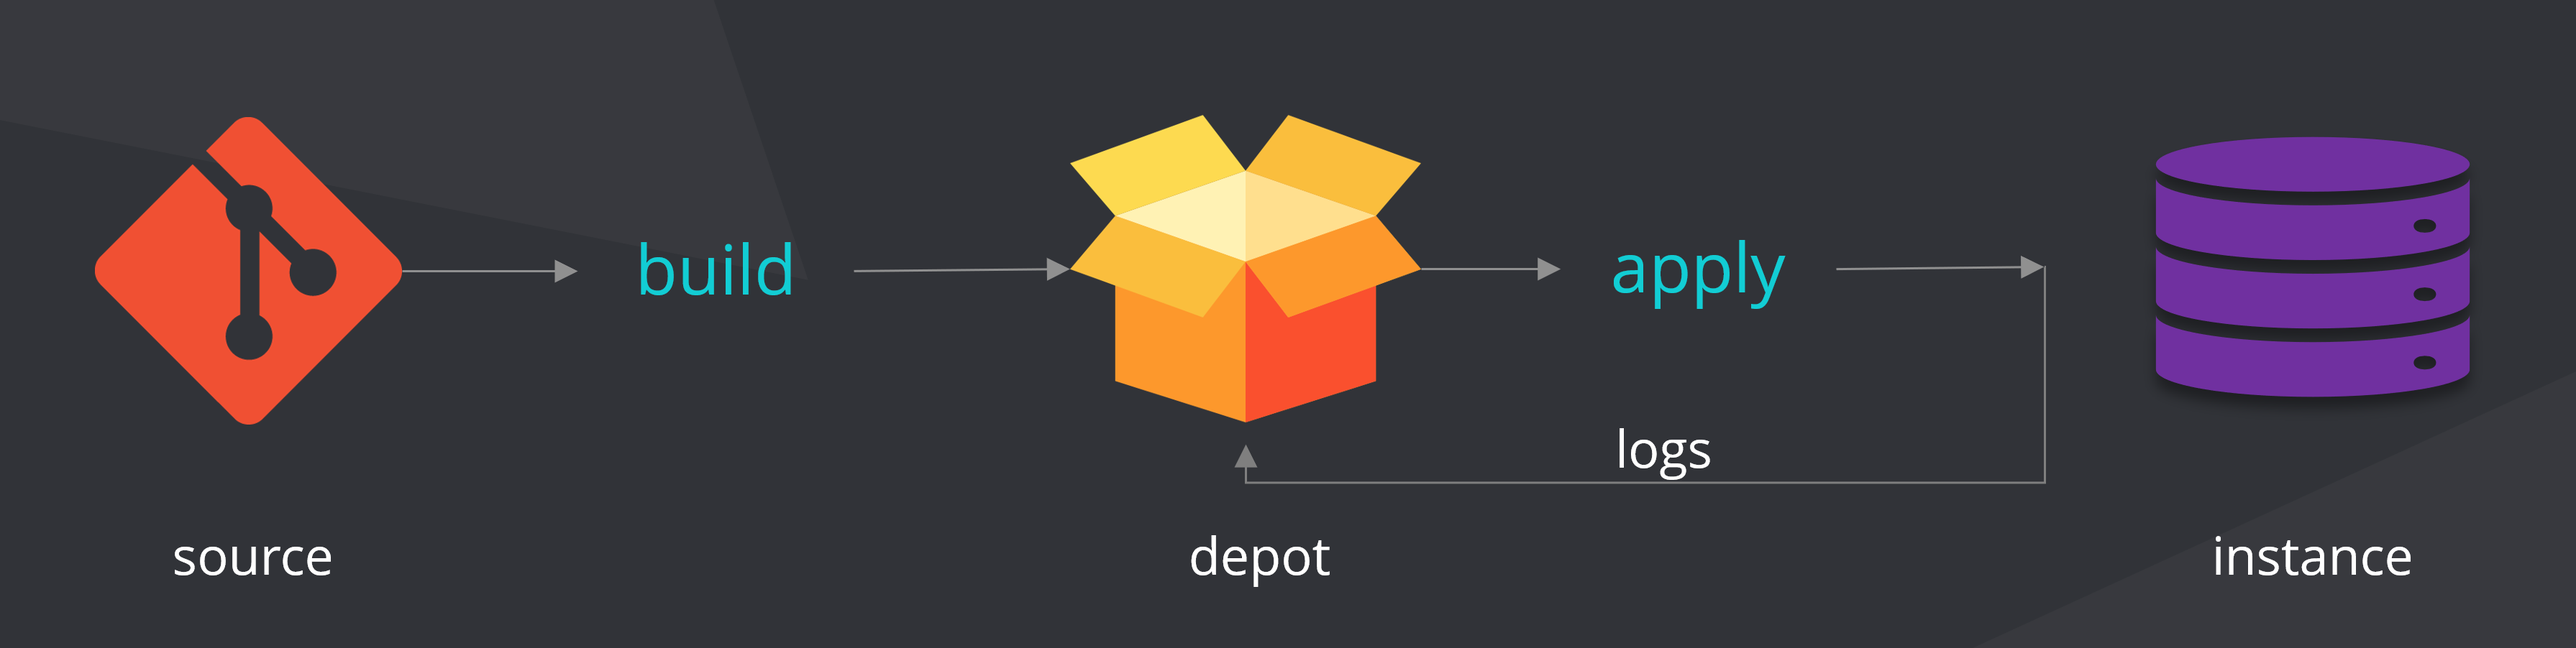
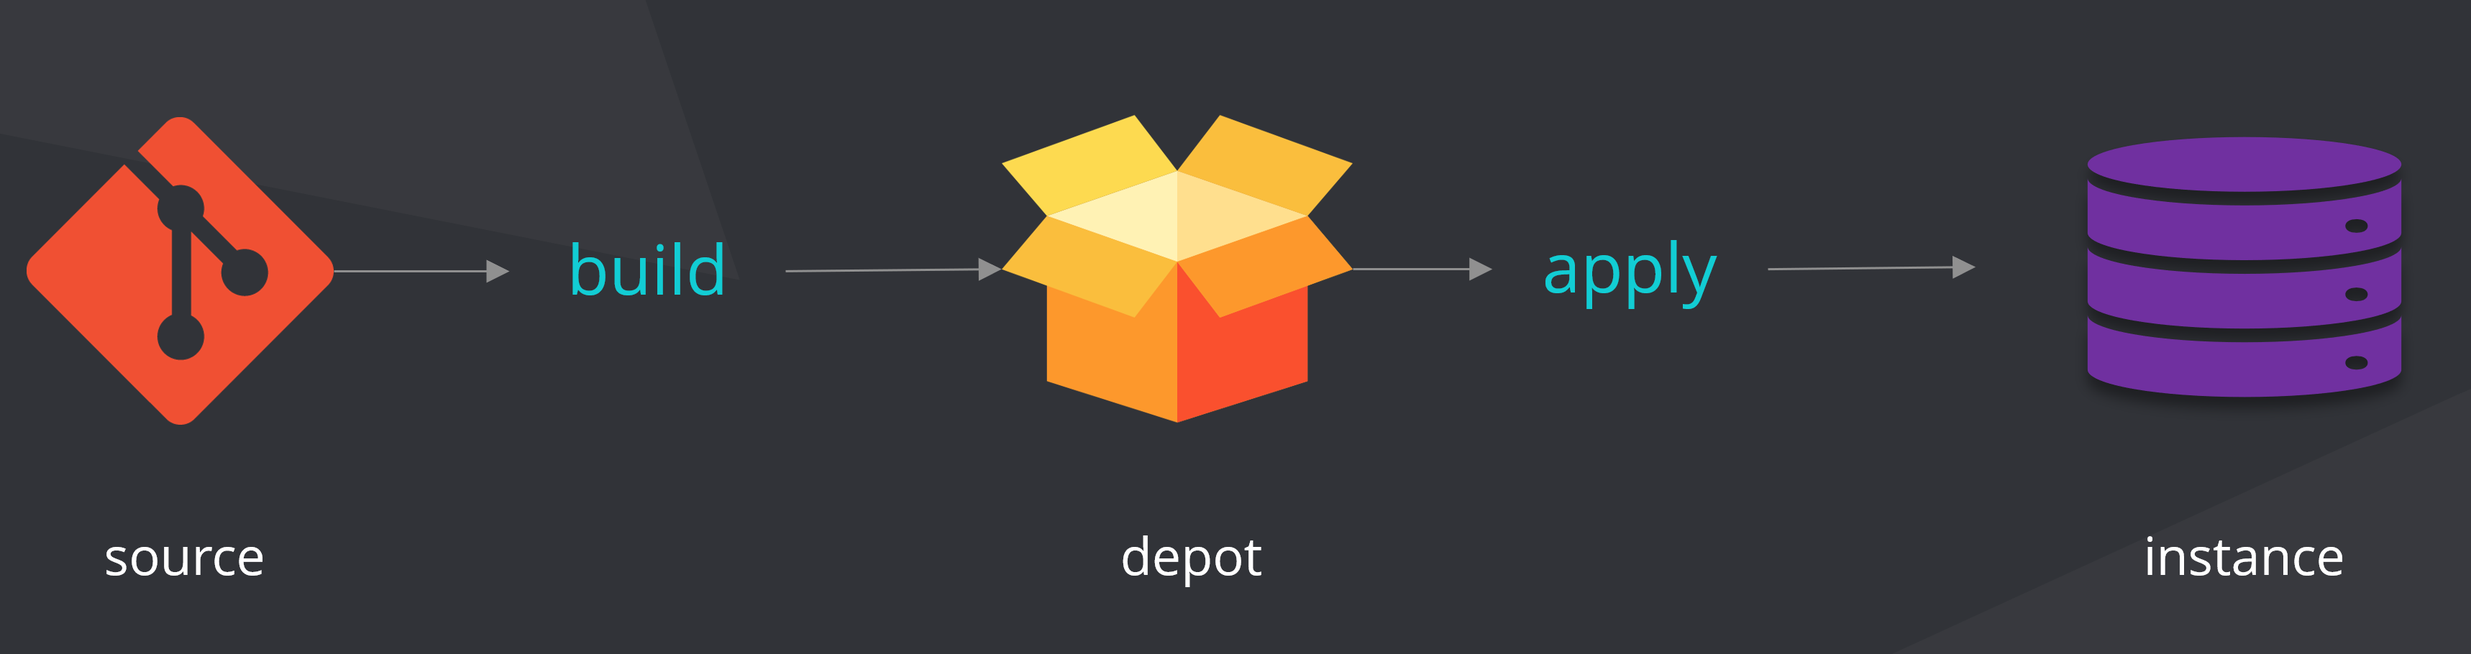
Updated docs and changelog

diff --git a/docs/concept.md b/docs/concept.md
@@ -426,11 +426,19 @@ Within the folders the order is alphabetical. If dbFLow finds a module file with
 
 ## Depot
 
-When you create a deployment, whether **==INIT==** or **==PATCH==**, the deployment artifact is stored in a so-called depot. From this depot, a CI/CD tool, for example, can later fetch the artifact and install it on the target instance. Within the depot directory, the individual deployments are stored in subdirectories that correspond to the Git branch from which they were created. After a successful installation, the patch, including all logs and temporary files, is placed in the success folder. Errors during the deployment lead to an abort and are stored in the failures subfolder.
+When you create a deployment, whether **==INIT==** or **==PATCH==**, the deployment artifact is stored in a so-called depot. From this depot, a CI/CD tool, for example, can later fetch the artifact and install it on the target instance. Within the depot directory, the individual deployments are stored in subdirectories that correspond to the Git branch from which they were created.
+
 
 ![](images/depot_and_flow.png)
 
 I recommend to use a separate repository or directory for each stage DB. This has the advantage that the corresponding directories serve their purpose even without Git and possibly access to the development repository. Theoretically, the repository can also be "doubled" to have a target directory at home and a source directory at the customer.
+
+
+## Logging
+
+After a successful installation, all logs and temporary created artifacs, are placed in a log folder. Errors during the deployment lead to an abort and are stored in the failures subfolder. The location of the log folder itself is configured in apply.env.
+
+>We recommend using the actual instance folder to ensure greater transparency.
 
 ## Big Picture
 

diff --git a/docs/setup.md b/docs/setup.md
@@ -120,6 +120,7 @@ You will be asked the following questions when creating the project:
 | Enter stage of this configuration mapped to branch (develop, test, master) [develop] | When importing the deployment, this setting assigns the database connection to the source branch |
 | Do you wish to generate and install default tooling? (Logger, utPLSQL, teplsql, tapi) [Y] | Here you activate the initial installation of the different components/dependencies. These are placed in the `db/_setup/features` folder. There you can also place other features by yourself. If you don't need certain components, you can delete the corresponding file from the features folder (before running the actual installation)..
 | Install with sql(cl) or sqlplus? [sqlplus] | Here you define which CLI **dbFLow** should use to execute the SQL scripts. |
+| Enter path to place logfiles and artifacts into after installation? | After a successful and also after an unsuccessful installation, all log files are stored in the folder specified here. |
 | Enter path to place logfiles into after installation? | You can define a path where the log files will be stored as well. This is useful when you have instance repos and want to have a history of your deployments near by the instance itself. |
 | Enter application IDs (comma separated) you wish to use initialy (100,101,...) | Here you can already enter the application IDs that **dbFlow** should initially take care of |
 | Enter restful Moduls (comma separated) you wish to use initialy (api,test,...) | Here you can already specify the REST modules that **dbFlow** should initially take care of |

diff --git a/docs/deployment.md b/docs/deployment.md
@@ -196,7 +196,7 @@ By specifying the ``-p/--patch`` flag, a patch release is imported from the depo
 $ .dbFlow/apply.sh --patch --version 1.1.0
 ```
 
-After the installation of a release, the artifact, as well as all resulting log and installation files are stored in the depot under the directory (success or failure). Failure of course only if the installation was aborted due to an error.
+After the installation of a release, all resulting log and installation files are stored in the configured `LOG_PATH` under a version directory and *success* or *failure*. Failure of course only if the installation was aborted due to an error.
 
 #### Additional arguments in patch mode:
 
@@ -213,7 +213,7 @@ $ # get and copy the failed patch to instance folder
 $ cp ../depot/test/failure/patch_1.1.0.tar.gz ./
 $
 $ # apply patch by installing only the uncalled db scripts
-$ .dbFlow/apply.sh --patch --version 1.1.0 --redolog ../depot/test/failure/20230613121314_dpl_patch_1.1.0.log
+$ .dbFlow/apply.sh --patch --version 1.1.0 --redolog ./_log_path/test/failure/20230613121314_dpl_patch_1.1.0.log
 ```
 
 

diff --git a/CHANGELOG.md b/CHANGELOG.md
@@ -1,5 +1,15 @@
 # Changelog
 
+
+## [2.6.0 - 2024-02-15]
+New: Input new  version for tagging when on main or master and no pipeline is running
+New: Changes to depot are always pushed, when not in Pipeline
+New: Enablement occurs explizit only on untouched applictaions
+New: All Logs and Artifacts are written to log_path. No changes on apply to depot
+New: Support translated Apps during deployment
+New: validate tag existence and calculate next version by version label
+Fix: echo out instead of printf when writing changelog
+
 ## [2.5.0 - 2024-01-23]
 - New: During patch, scan explicitly for a subfolder
        inside `tables/tables_ddl` with the name of the target-branch

diff --git a/docs/tutorial.md b/docs/tutorial.md
@@ -87,6 +87,7 @@ sources[develop]$: .dbFlow/setup.sh --generate todo
     Enter stage of this configuration mapped to branch (develop, test, master) [develop]:
     Do you wish to generate and install default tooling? (Logger, utPLSQL, teplsql, tapi) [Y]: N
     Install with sql(cl) or sqlplus? [sqlplus]:
+    Enter path to place logfiles and artifacts into after installation? [_log_path]
     Enter application IDs (comma separated) you wish to use initialy (100,101,...):
     Enter restful Moduls (comma separated) you wish to use initialy (api,test,...):
 
